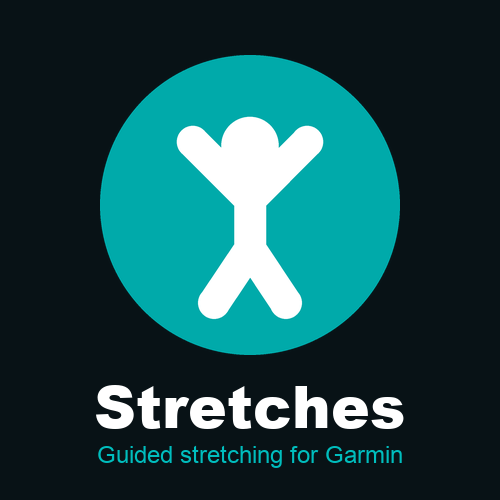
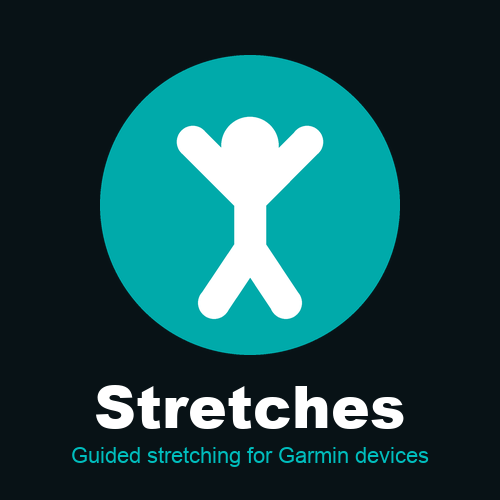
Store assets: comply with Garmin trademark guidelines (#9)
Garmin rejected the store submission because the marketing images used
"Garmin" as a noun for the product. Per the brand guidelines, an app may
state accurate compatibility with Garmin devices but must not use the
mark on its own.

- Hero: "on Garmin" -> "on Garmin devices"
- Cover: "Guided stretching for Garmin" -> "... for Garmin devices"
  (subtitle dropped to 22pt so the longer line stays within the 500px cover)
- Long description: "turns your Garmin into" -> "turns your watch into"

"Garmin Connect" references are kept: it is the actual product name and
the statements are accurate compatibility claims the guidelines allow.

Changed region(s): [[0.12, 0.87, 0.87, 0.96]]

diff --git a/scripts/generate_store_assets.py b/scripts/generate_store_assets.py
@@ -84,9 +84,9 @@ def render_cover():
     icon = render_icon(300)
     img.paste(icon, ((size - 300) // 2, 55), icon)
     title = ImageFont.truetype(os.path.join(FONT_DIR, "Arial Black.ttf"), 58)
-    sub = ImageFont.truetype(os.path.join(FONT_DIR, "Arial.ttf"), 24)
+    sub = ImageFont.truetype(os.path.join(FONT_DIR, "Arial.ttf"), 22)
     d.text((size / 2, 405), "Stretches", font=title, fill=WHITE, anchor="mm")
-    d.text((size / 2, 455), "Guided stretching for Garmin", font=sub,
+    d.text((size / 2, 455), "Guided stretching for Garmin devices", font=sub,
            fill=TEAL_BRIGHT, anchor="mm")
     return img
 

diff --git a/scripts/generate_store_hero.py b/scripts/generate_store_hero.py
@@ -121,7 +121,7 @@ def main():
     x = 80
     d.text((x, 116), "Stretches", font=font("Arial Black.ttf", 104), fill=WHITE)
     d.text((x, 236), "Your guided stretching coach", font=font("Arial Bold.ttf", 38), fill=TEAL)
-    d.text((x, 292), "on Garmin", font=font("Arial Bold.ttf", 38), fill=TEAL)
+    d.text((x, 292), "on Garmin devices", font=font("Arial Bold.ttf", 38), fill=TEAL)
 
     feats = [
         (GROUP_TEAL, "34 illustrated stretches, 5 muscle groups"),

diff --git a/docs/STORE_LISTING.md b/docs/STORE_LISTING.md
@@ -27,7 +27,7 @@ Health & Fitness  ·  Type: Watch App
 ```
 Move better, every day.
 
-Stretches turns your Garmin into a personal stretching coach. Choose the stretches you care about, set the times you want to be reminded, and let your watch guide you through each pose with clear illustrations and countdowns - then save the session to Garmin Connect like any other activity.
+Stretches turns your watch into a personal stretching coach. Choose the stretches you care about, set the times you want to be reminded, and let your watch guide you through each pose with clear illustrations and countdowns - then save the session to Garmin Connect like any other activity.
 
 Perfect for desk breaks, warm-ups, cooldowns, post-run mobility, and stiff necks.
 
